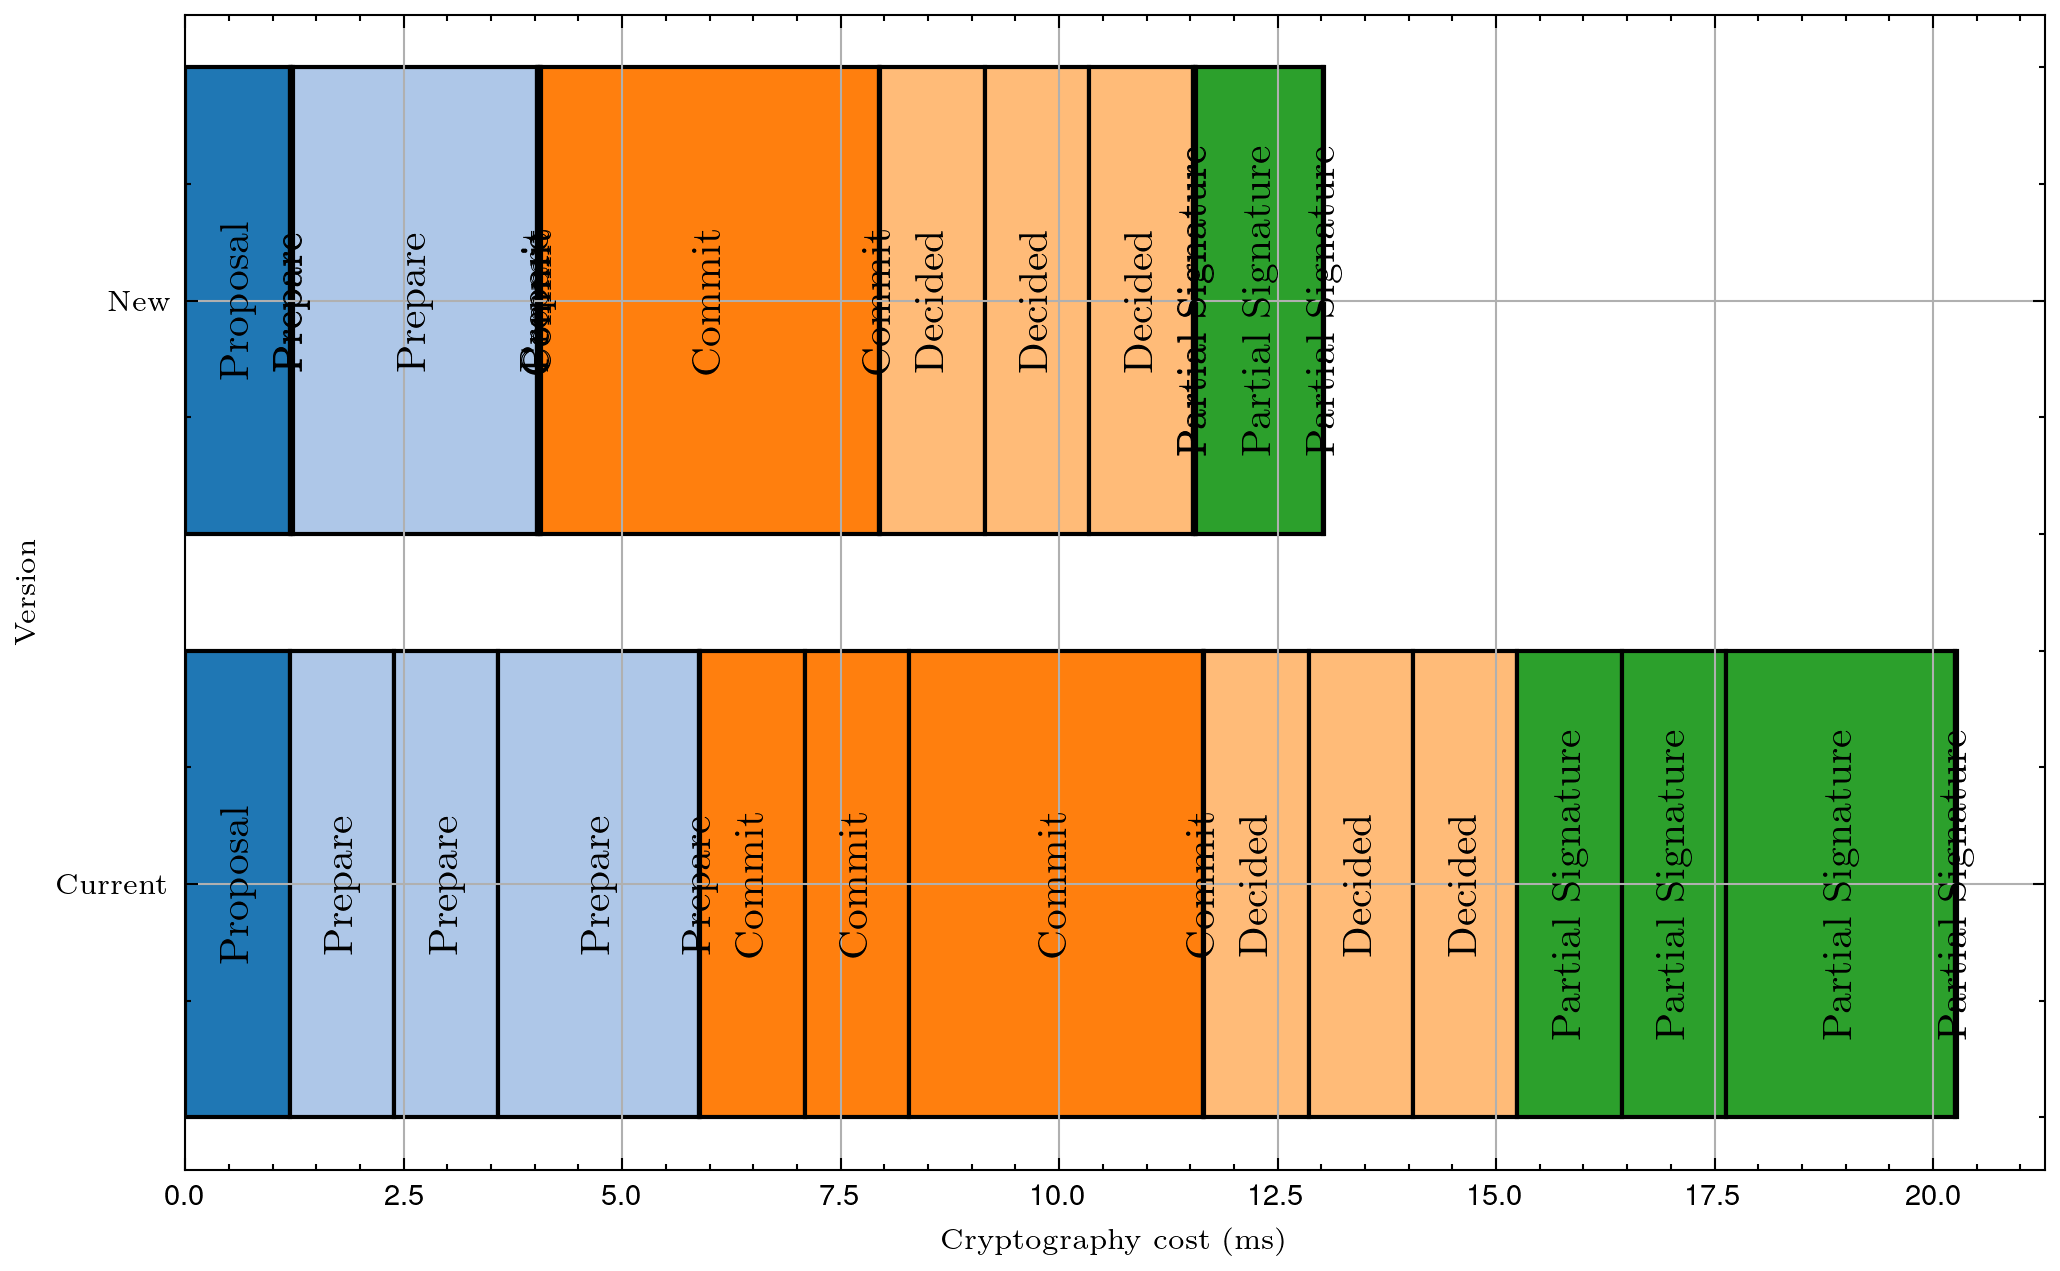
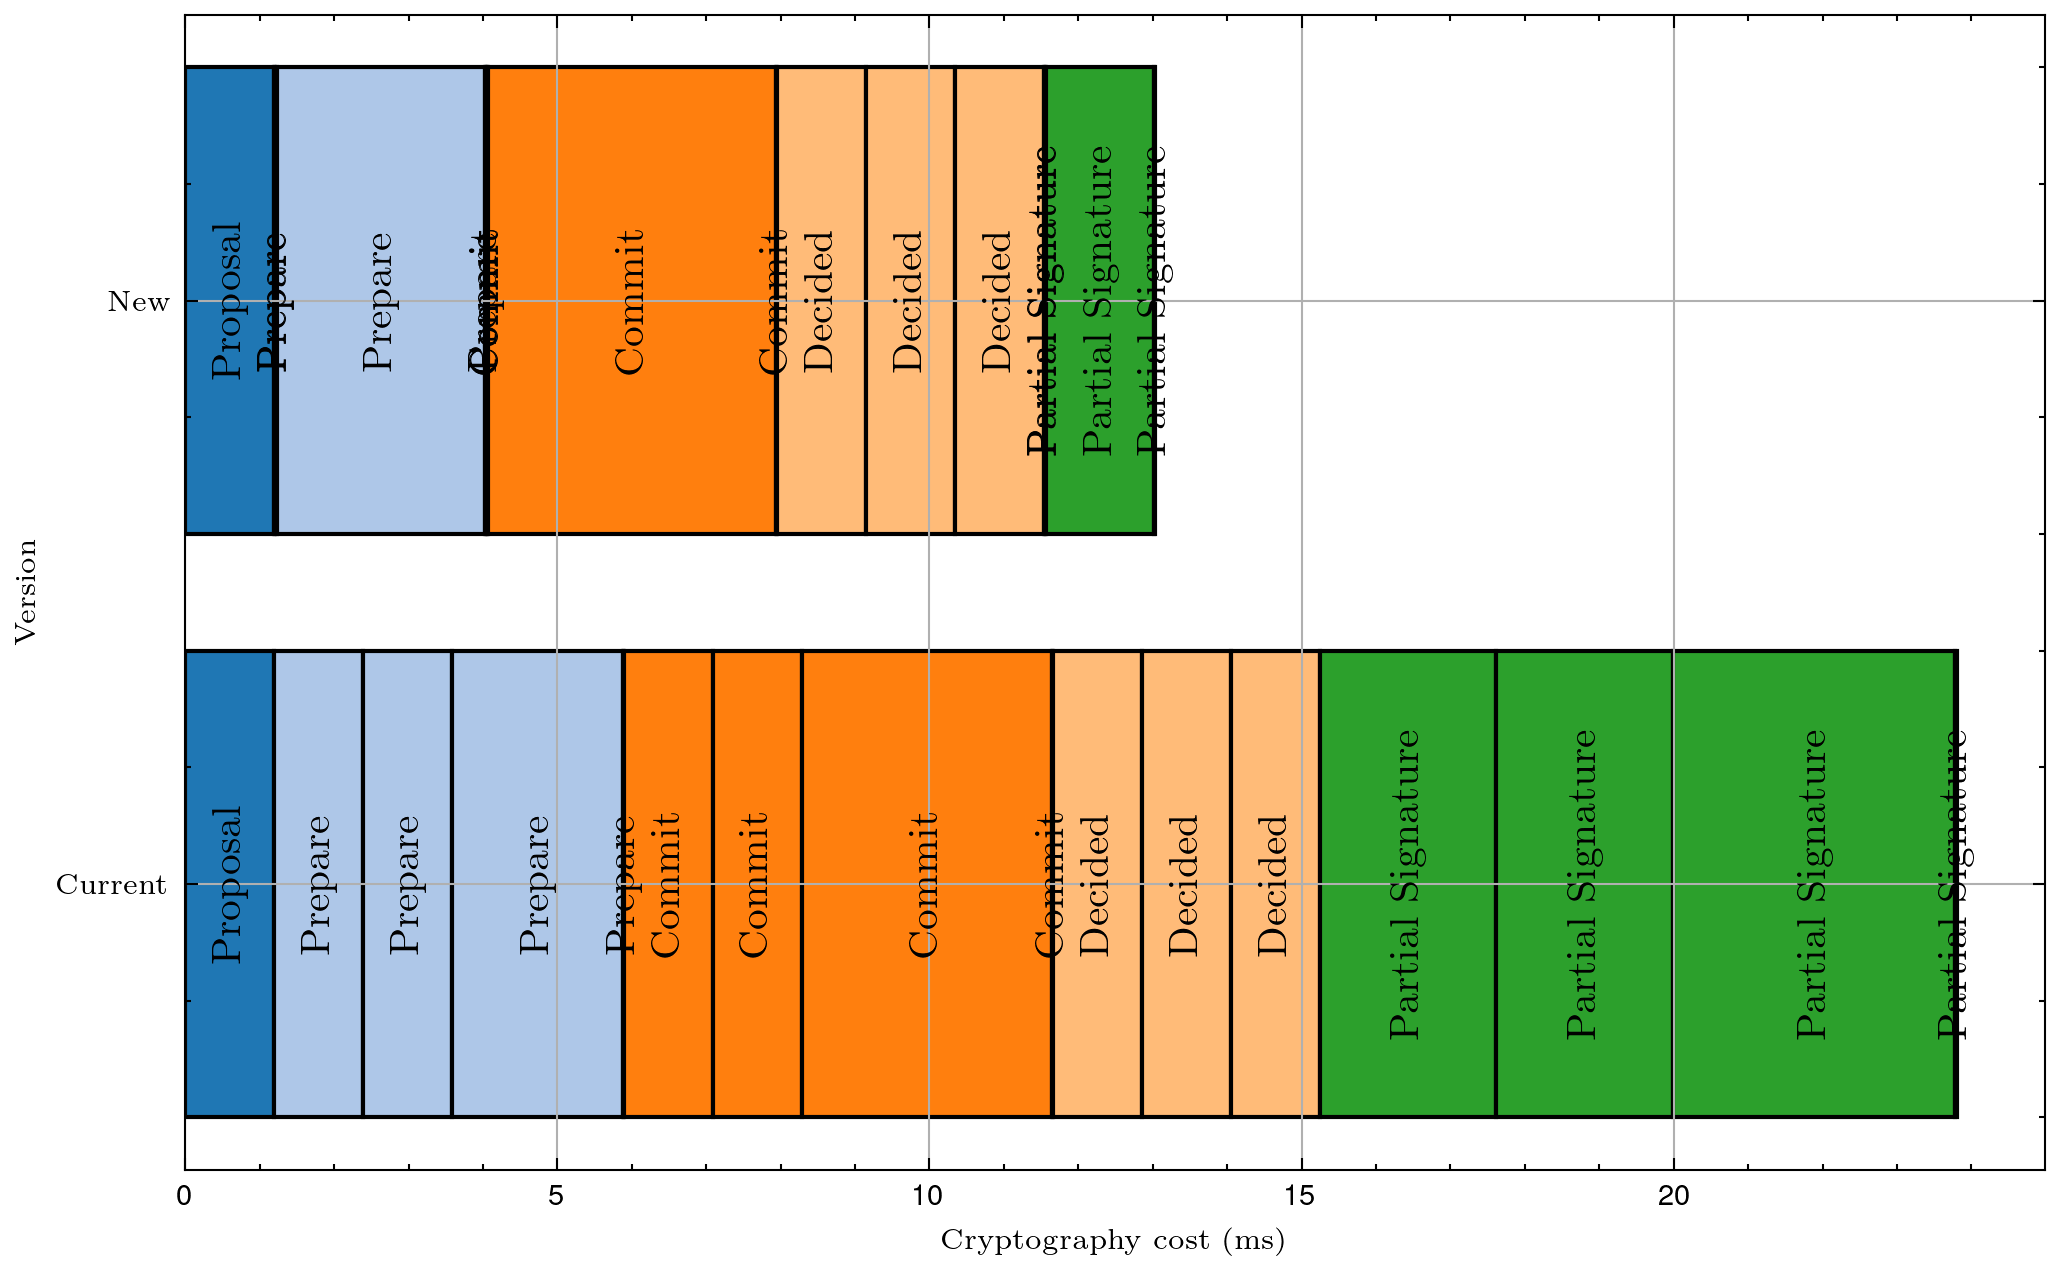
Fix improvement

diff --git a/sips/reduce_signatures_no_fork.md b/sips/reduce_signatures_no_fork.md
@@ -29,7 +29,7 @@ Similarly to the 2nd change, we can use fast verification for the quorum of *pre
 
 ## Improvements
 
-For the attestation duty case (the most frequent one), the new cryptography cost is reduced to $66$% of the current value, a $1.5$x boost.
+For the attestation duty case (the most frequent one), the new cryptography cost is reduced to $57$% of the current value, a $1.75$x boost.
 
 The cryptography costs of the duty's steps are shown below.
 
@@ -40,7 +40,7 @@ The cryptography costs of the duty's steps are shown below.
 
 ## Spec change
 
-### Partial signature messages processing
+### Partial signature message processing
 
 The `BaseRunner`'s `validatePartialSigMsgForSlot` function should be changed in order not to verify the BLS signatures.
 
